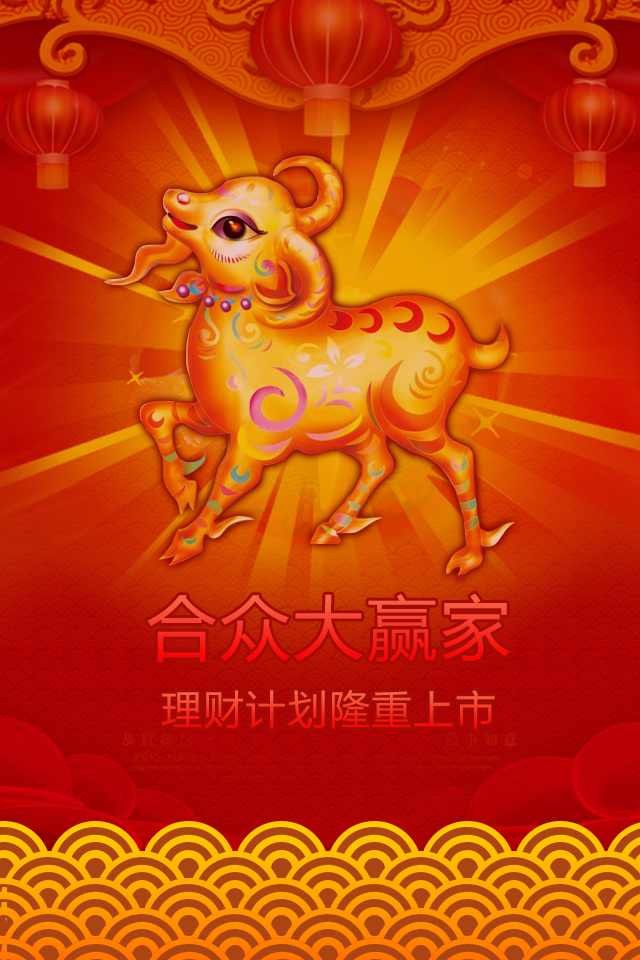
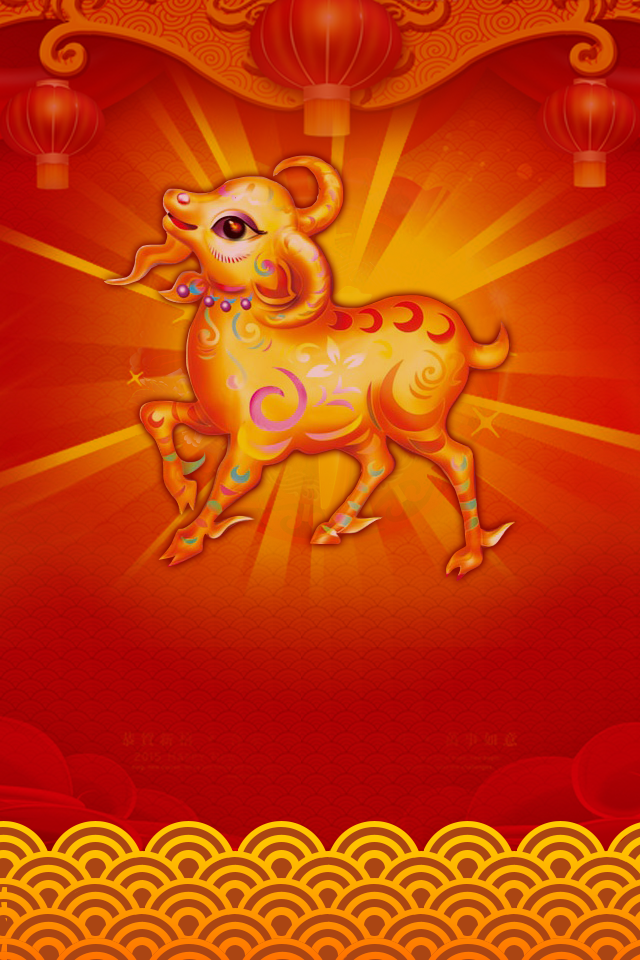
测试

Changed region(s): [[0.2188, 0.5938, 0.8125, 0.6875], [0.25, 0.7188, 0.6875, 0.7812], [0.7188, 0.7188, 0.7812, 0.75]]

diff --git a/wxmenu/static/winner_skin/Preloader.js b/wxmenu/static/winner_skin/Preloader.js
@@ -17,8 +17,8 @@ Winner.Preloader.prototype = {
 
 		// load images
 		//this.load.image('background', '/static/winner_skin/imgs/background.png');
-		//this.load.image('background2', '/static/winner_skin/imgs/background2.png');
-		//this.load.image('intro', 'imgs/intro.png');
+		this.load.image('background1', '/static/winner_skin/imgs/background1.png');
+		//this.load.image('intro', '/static/winner_skin/imgs/intro.png');
 		this.load.image('floor', '/static/winner_skin/imgs/floor.png');
 		//this.load.image('title', '/static/winner_skin/imgs/title.png');
 		this.load.image('gameover', '/static/winner_skin/imgs/gameover.png');
@@ -29,6 +29,7 @@ Winner.Preloader.prototype = {
 		this.load.spritesheet('candy', '/static/winner_skin/imgs/candy.png', 135, 109);
 		this.load.spritesheet('monster-idle', '/static/winner_skin/imgs/monster-cover.png', 229, 304);
 		this.load.spritesheet('button-start', '/static/winner_skin/imgs/button-start.png', 342, 115);
+		this.load.spritesheet('skipBtn', '/static/winner_skin/imgs/skipBtn.png', 342, 115);
 		this.load.spritesheet('button-pause', '/static/winner_skin/imgs/button-pause.png',104,92);
 		this.load.spritesheet('arrow-left', '/static/winner_skin/imgs/arrowL.png',119,78);
 		this.load.spritesheet('arrow-right', '/static/winner_skin/imgs/arrowR.png',119,78);

diff --git a/wxmenu/static/winner_skin/MainMenu.js b/wxmenu/static/winner_skin/MainMenu.js
@@ -6,10 +6,14 @@ Winner.MainMenu.prototype = {
 		//this.add.sprite((Winner.GAME_WIDTH-445)/2, (Winner.GAME_HEIGHT-491)/2, 'intro');
 		this.add.sprite(40, 20, 'title');
 		// add the button that will start the game
-		this.add.button((Winner.GAME_WIDTH-342)/2, Winner.GAME_HEIGHT-363-10, 'button-start', this.startGame, this, 1, 0, 2);
+		this.add.button((Winner.GAME_WIDTH-342)/2, Winner.GAME_HEIGHT-373, 'button-start', this.startGame, this, 1, 0, 2);
+		this.add.button((Winner.GAME_WIDTH-342)/2, Winner.GAME_HEIGHT-258, 'skipBtn', skipGame, this, 1, 0, 2);
 	},
 	startGame: function() {
 		// start the Game state
 		this.state.start('Game');
 	}
 };
+function skipGame(){
+	resultDiv && resultDiv(200000, true)
+}

diff --git a/wxmenu/static/winner_skin/Game.js b/wxmenu/static/winner_skin/Game.js
@@ -23,7 +23,7 @@ Winner.Game.prototype = {
 		this.physics.startSystem(Phaser.Physics.ARCADE);		
 		this.physics.arcade.gravity.y = Winner._gravityValue;
 		
-		this.add.sprite(0, 0, 'background');
+		this.add.sprite(0, 0, 'background1');
 		this.add.sprite(-30, Winner.GAME_HEIGHT-166, 'floor');
 		this.add.sprite(10, 5, 'score-bg');		
 		this.add.button(Winner.GAME_WIDTH-96-10, 5, 'button-pause', this.managePause, this, 1, 0, 2);					
